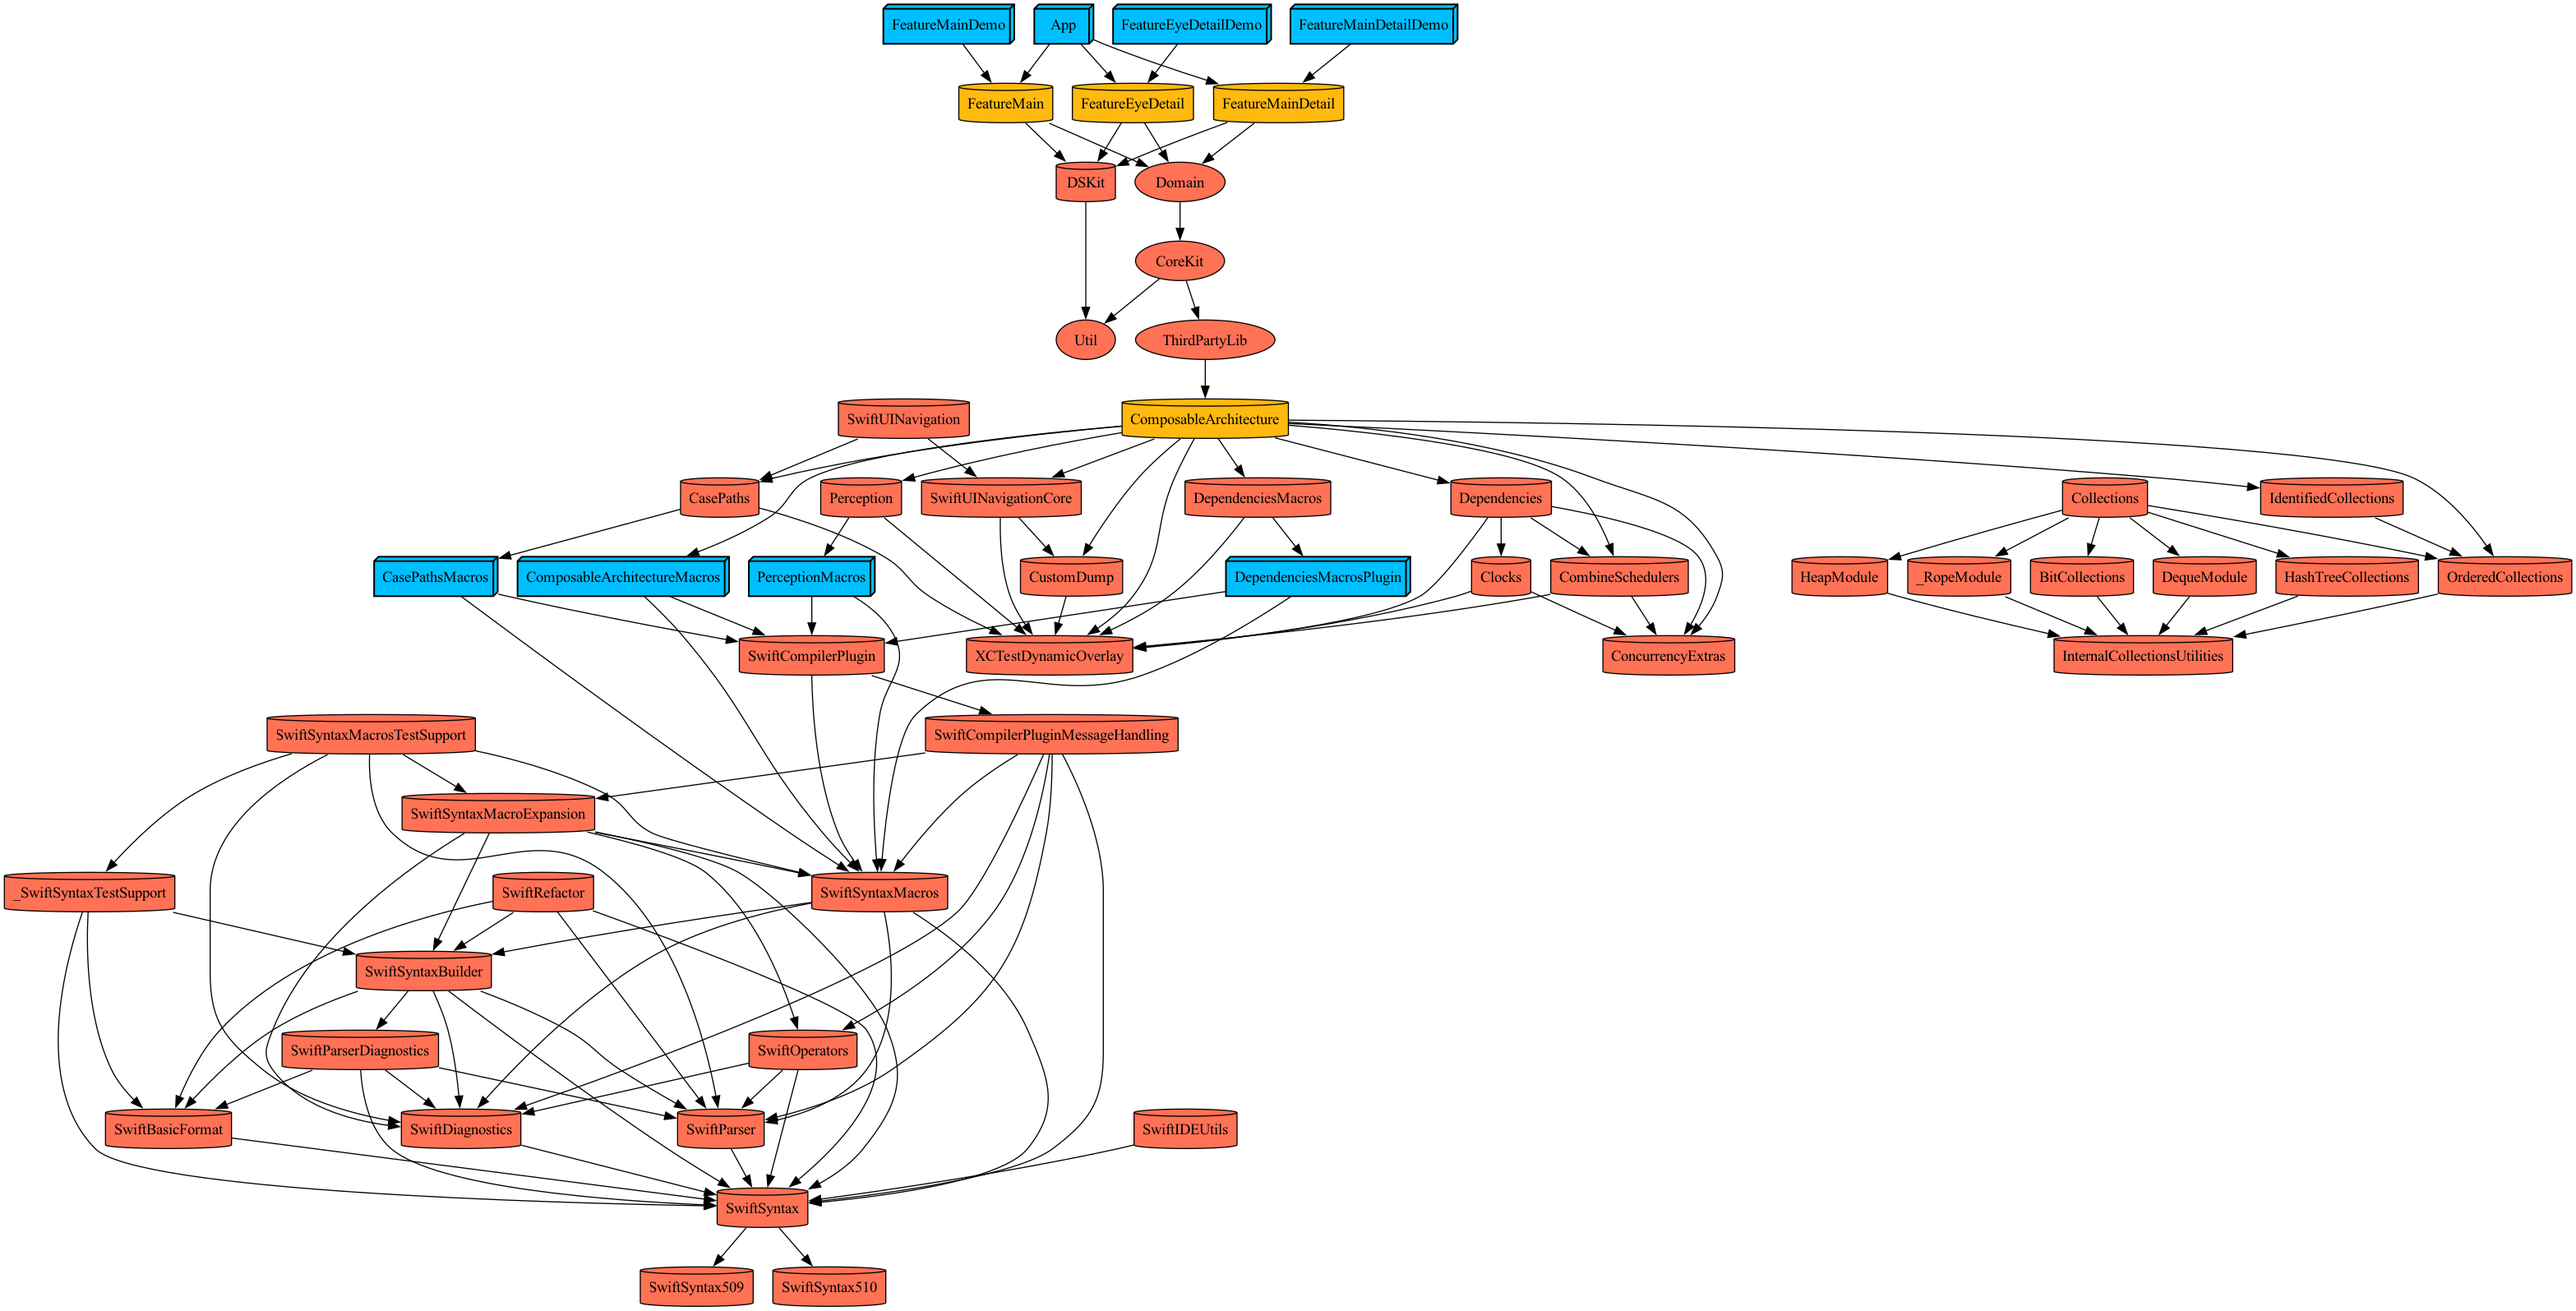
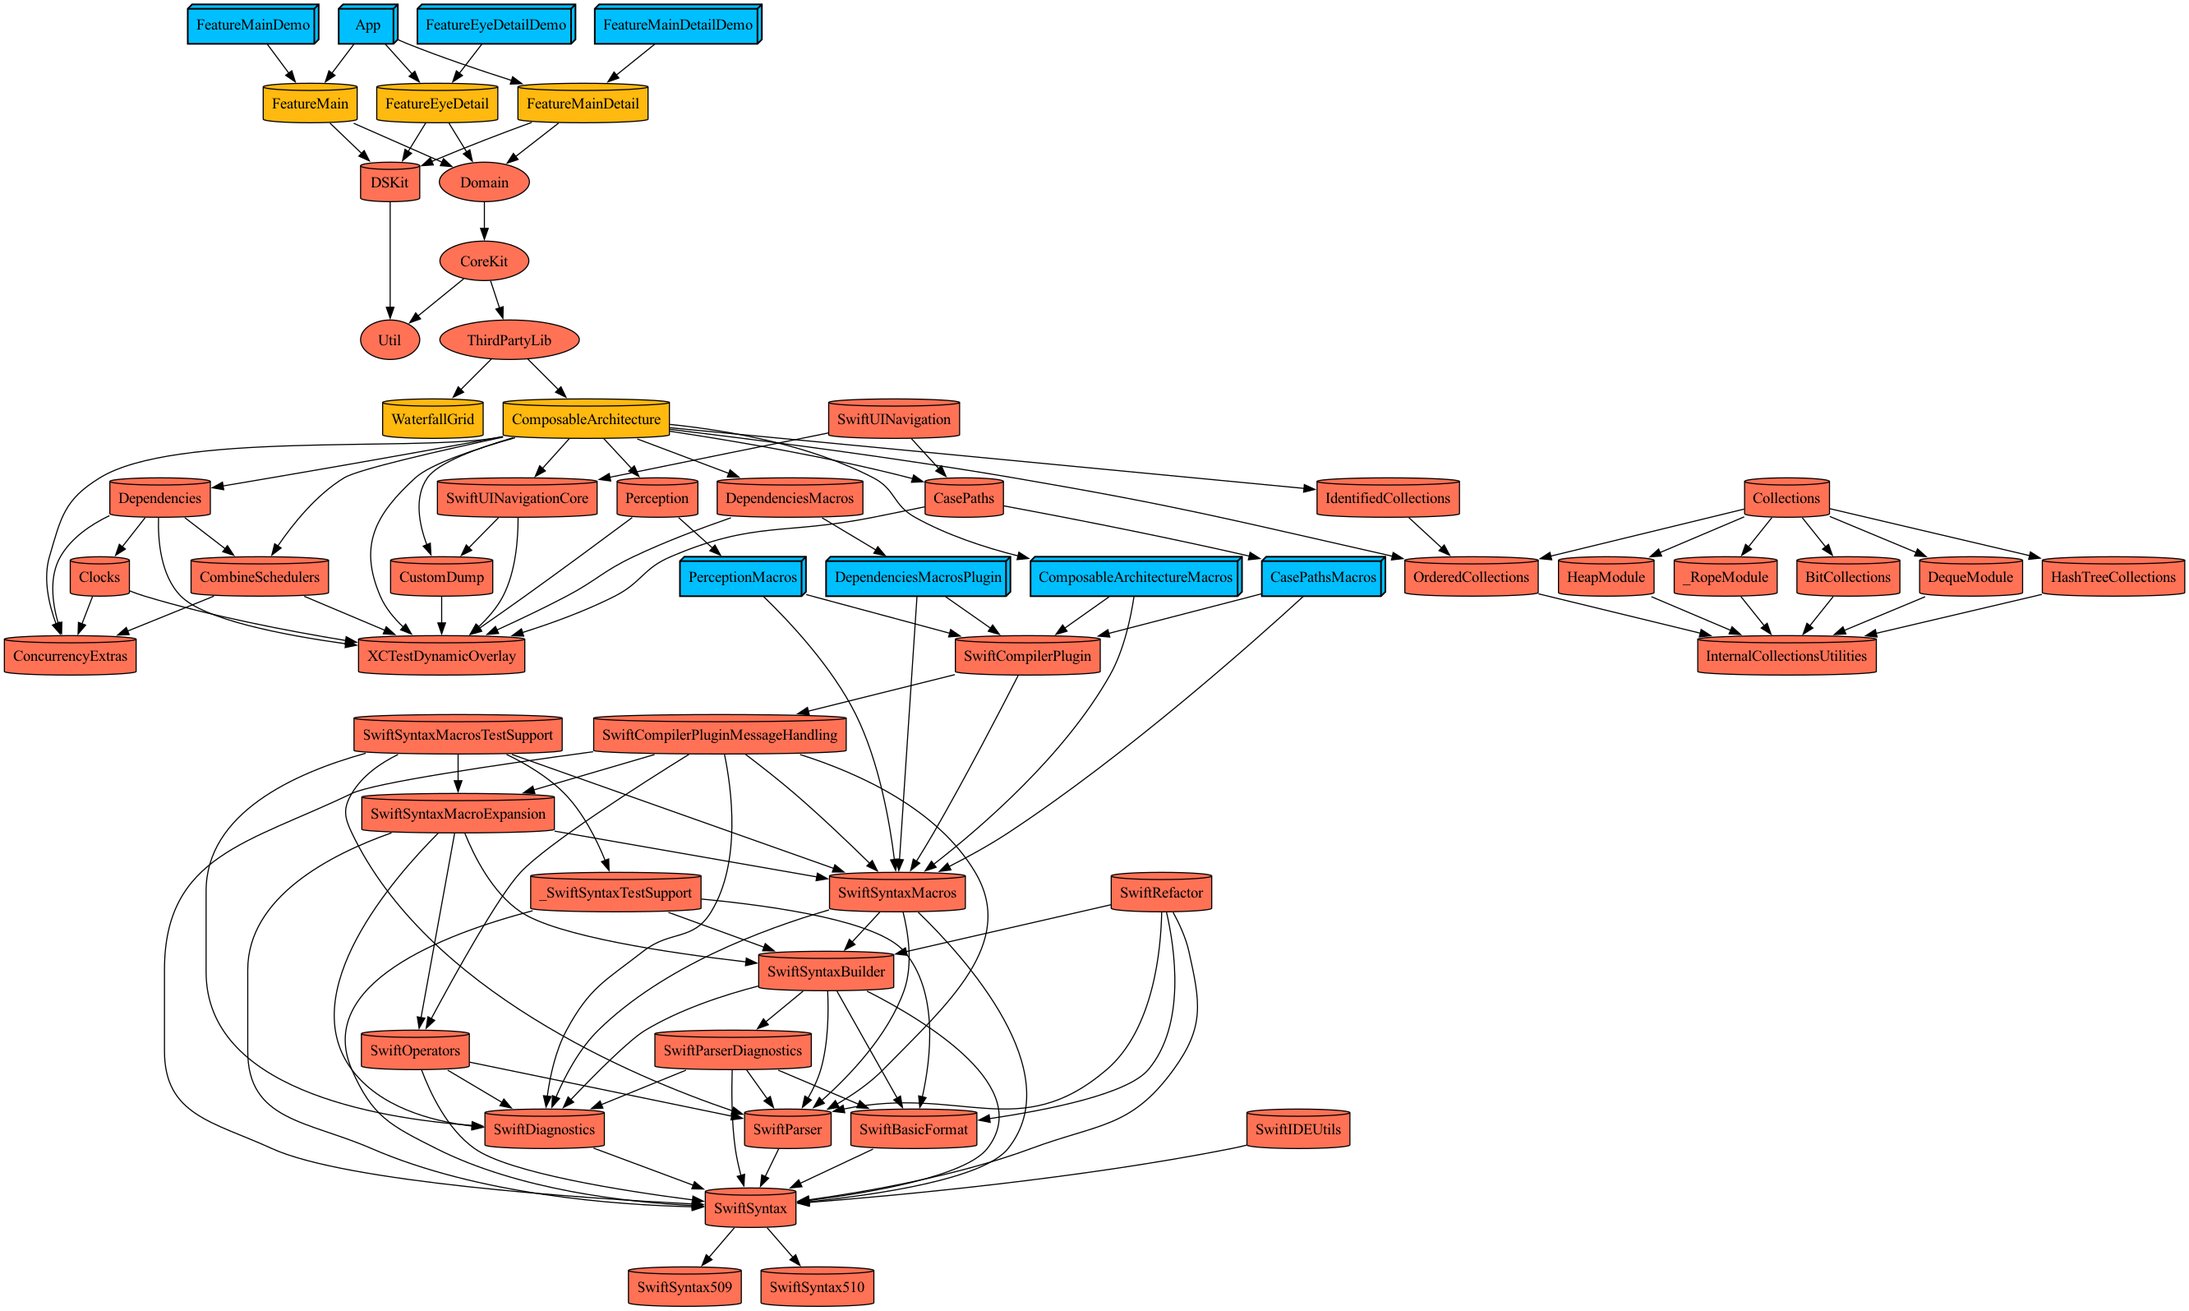
[feat] #5 WaterfallGrid 외부 라이브러리 추가

diff --git a/FakeAndFaith/Tuist/Package.swift b/FakeAndFaith/Tuist/Package.swift
@@ -8,7 +8,10 @@ import PackageDescription
         // Customize the product types for specific package product
         // Default is .staticFramework
         // productTypes: ["Alamofire": .framework,] 
-        productTypes: ["ComposableArchitecture": .framework]
+        productTypes: [
+            "ComposableArchitecture": .framework,
+            "WaterfallGrid": .framework
+        ]
     )
 #endif
 
@@ -18,6 +21,7 @@ let package = Package(
         // Add your own dependencies here:
         // .package(url: "https://github.com/Alamofire/Alamofire", from: "5.0.0"),
         // You can read more about dependencies here: https://docs.tuist.io/documentation/tuist/dependencies
-        .package(url: "https://github.com/pointfreeco/swift-composable-architecture", from: "1.10.4")
+        .package(url: "https://github.com/pointfreeco/swift-composable-architecture", from: "1.10.4"),
+        .package(url: "https://github.com/paololeonardi/WaterfallGrid", from: "1.0.1")
     ]
 )

diff --git a/FakeAndFaith/Projects/ThirdPartyLib/Project.swift b/FakeAndFaith/Projects/ThirdPartyLib/Project.swift
@@ -22,7 +22,8 @@ let project = Project(
             sources: ["Sources/**"],
             dependencies: [
                 // TODO: 의존성 추가
-                .external(name: "ComposableArchitecture")
+                .external(name: "ComposableArchitecture"),
+                .external(name: "WaterfallGrid")
             ]
         )
     ]
